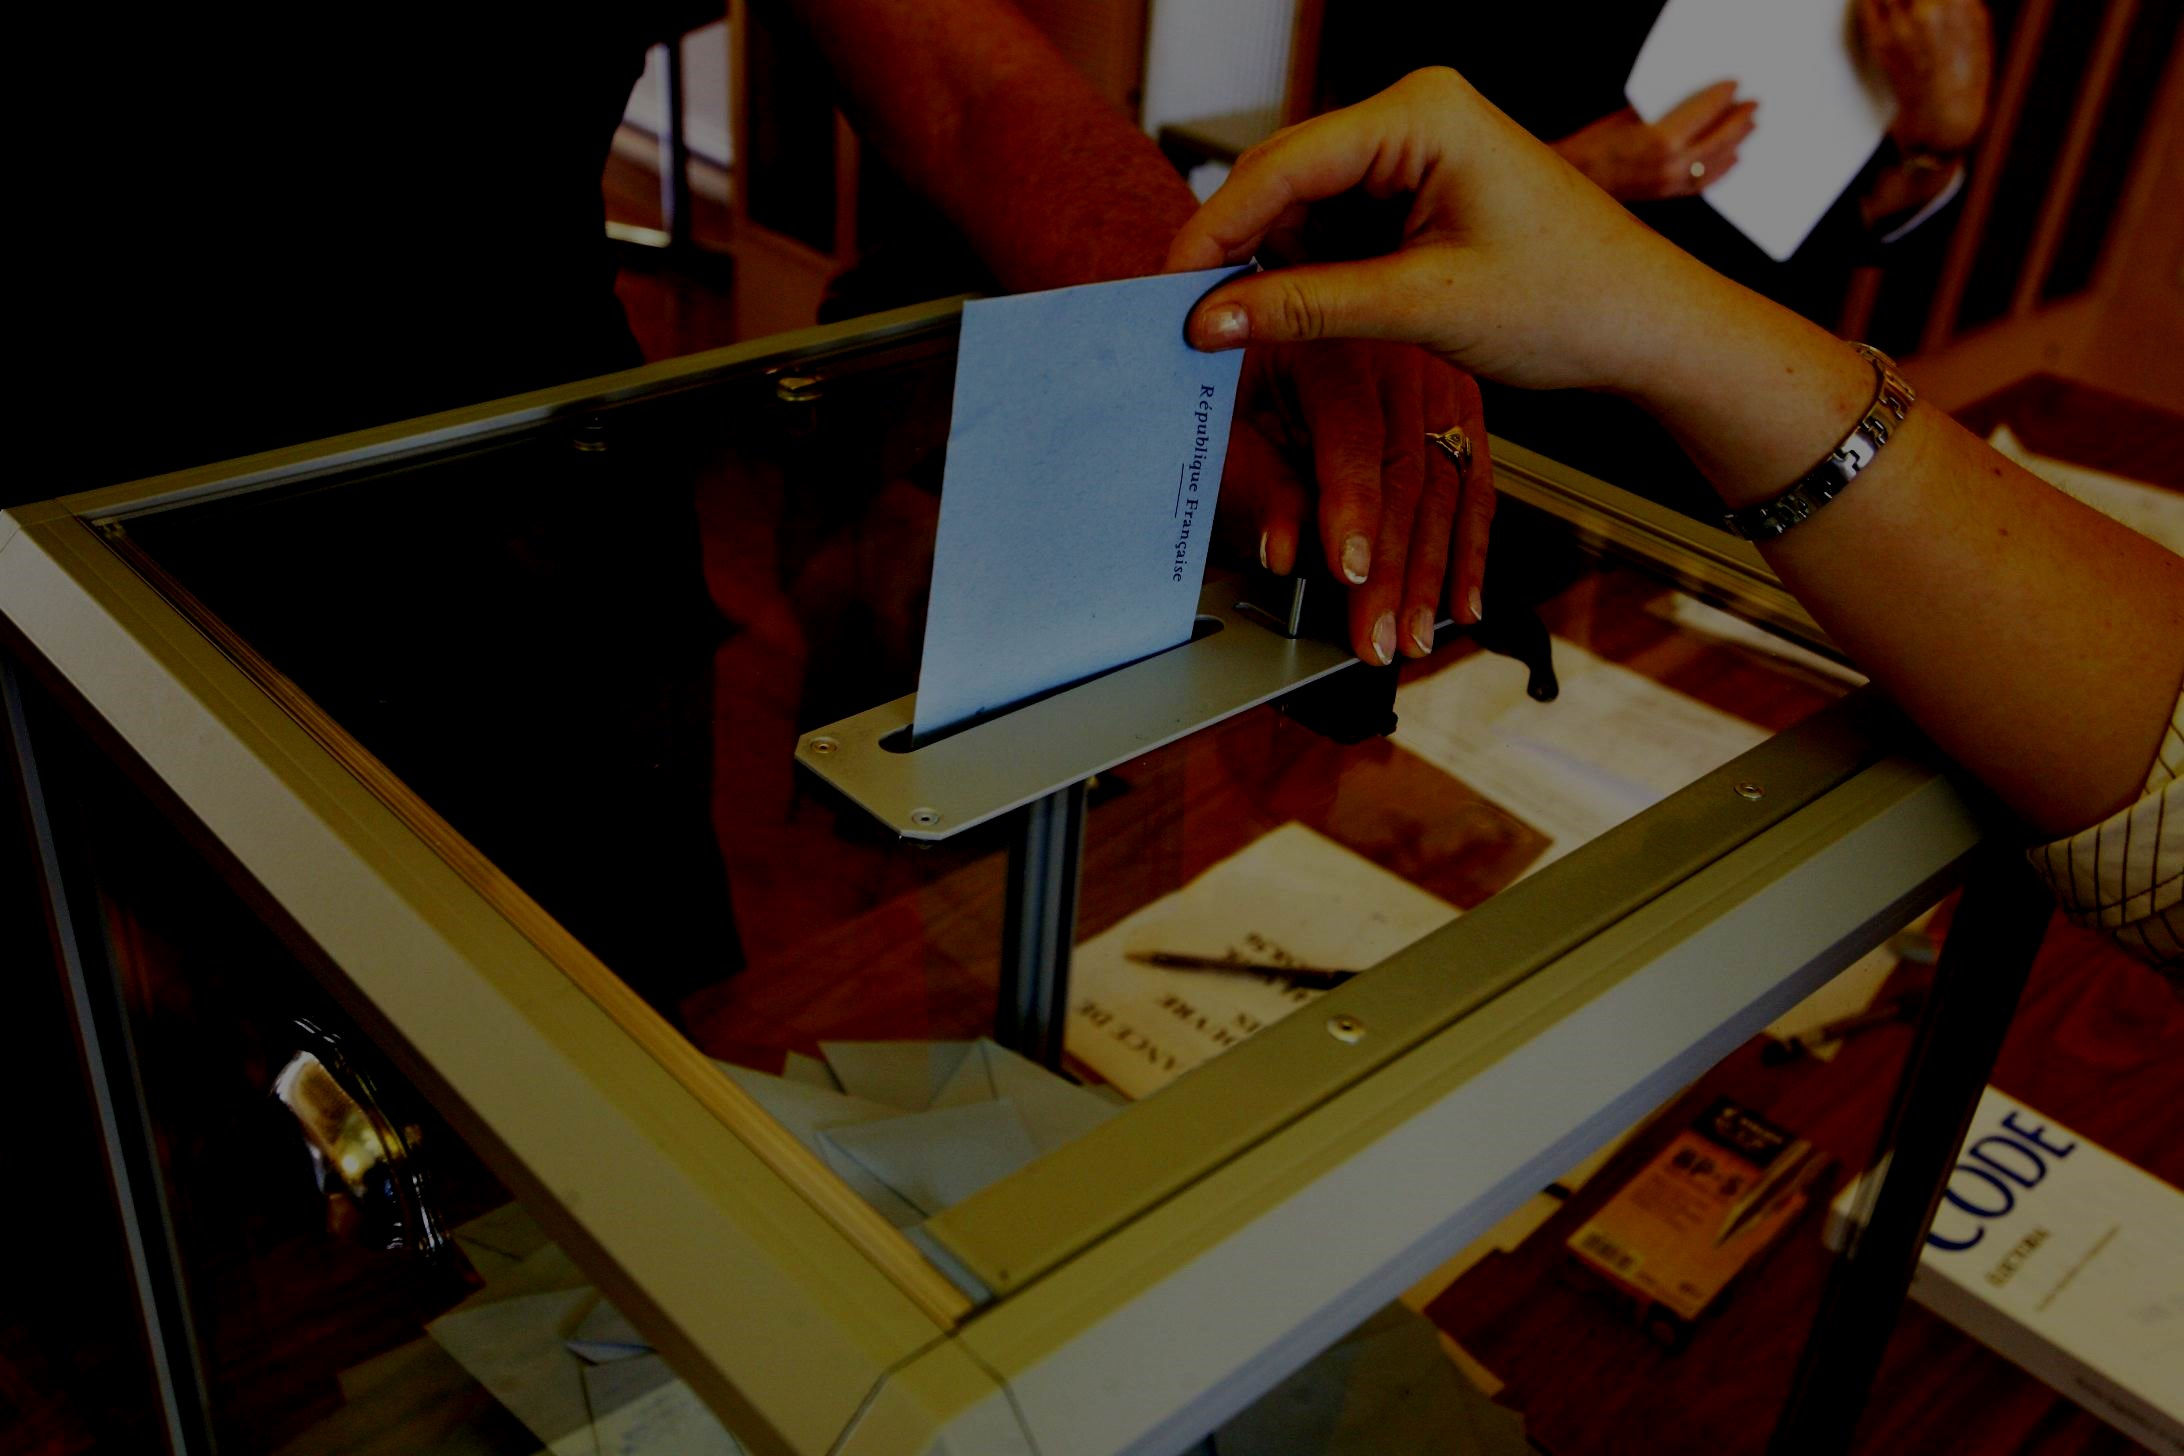
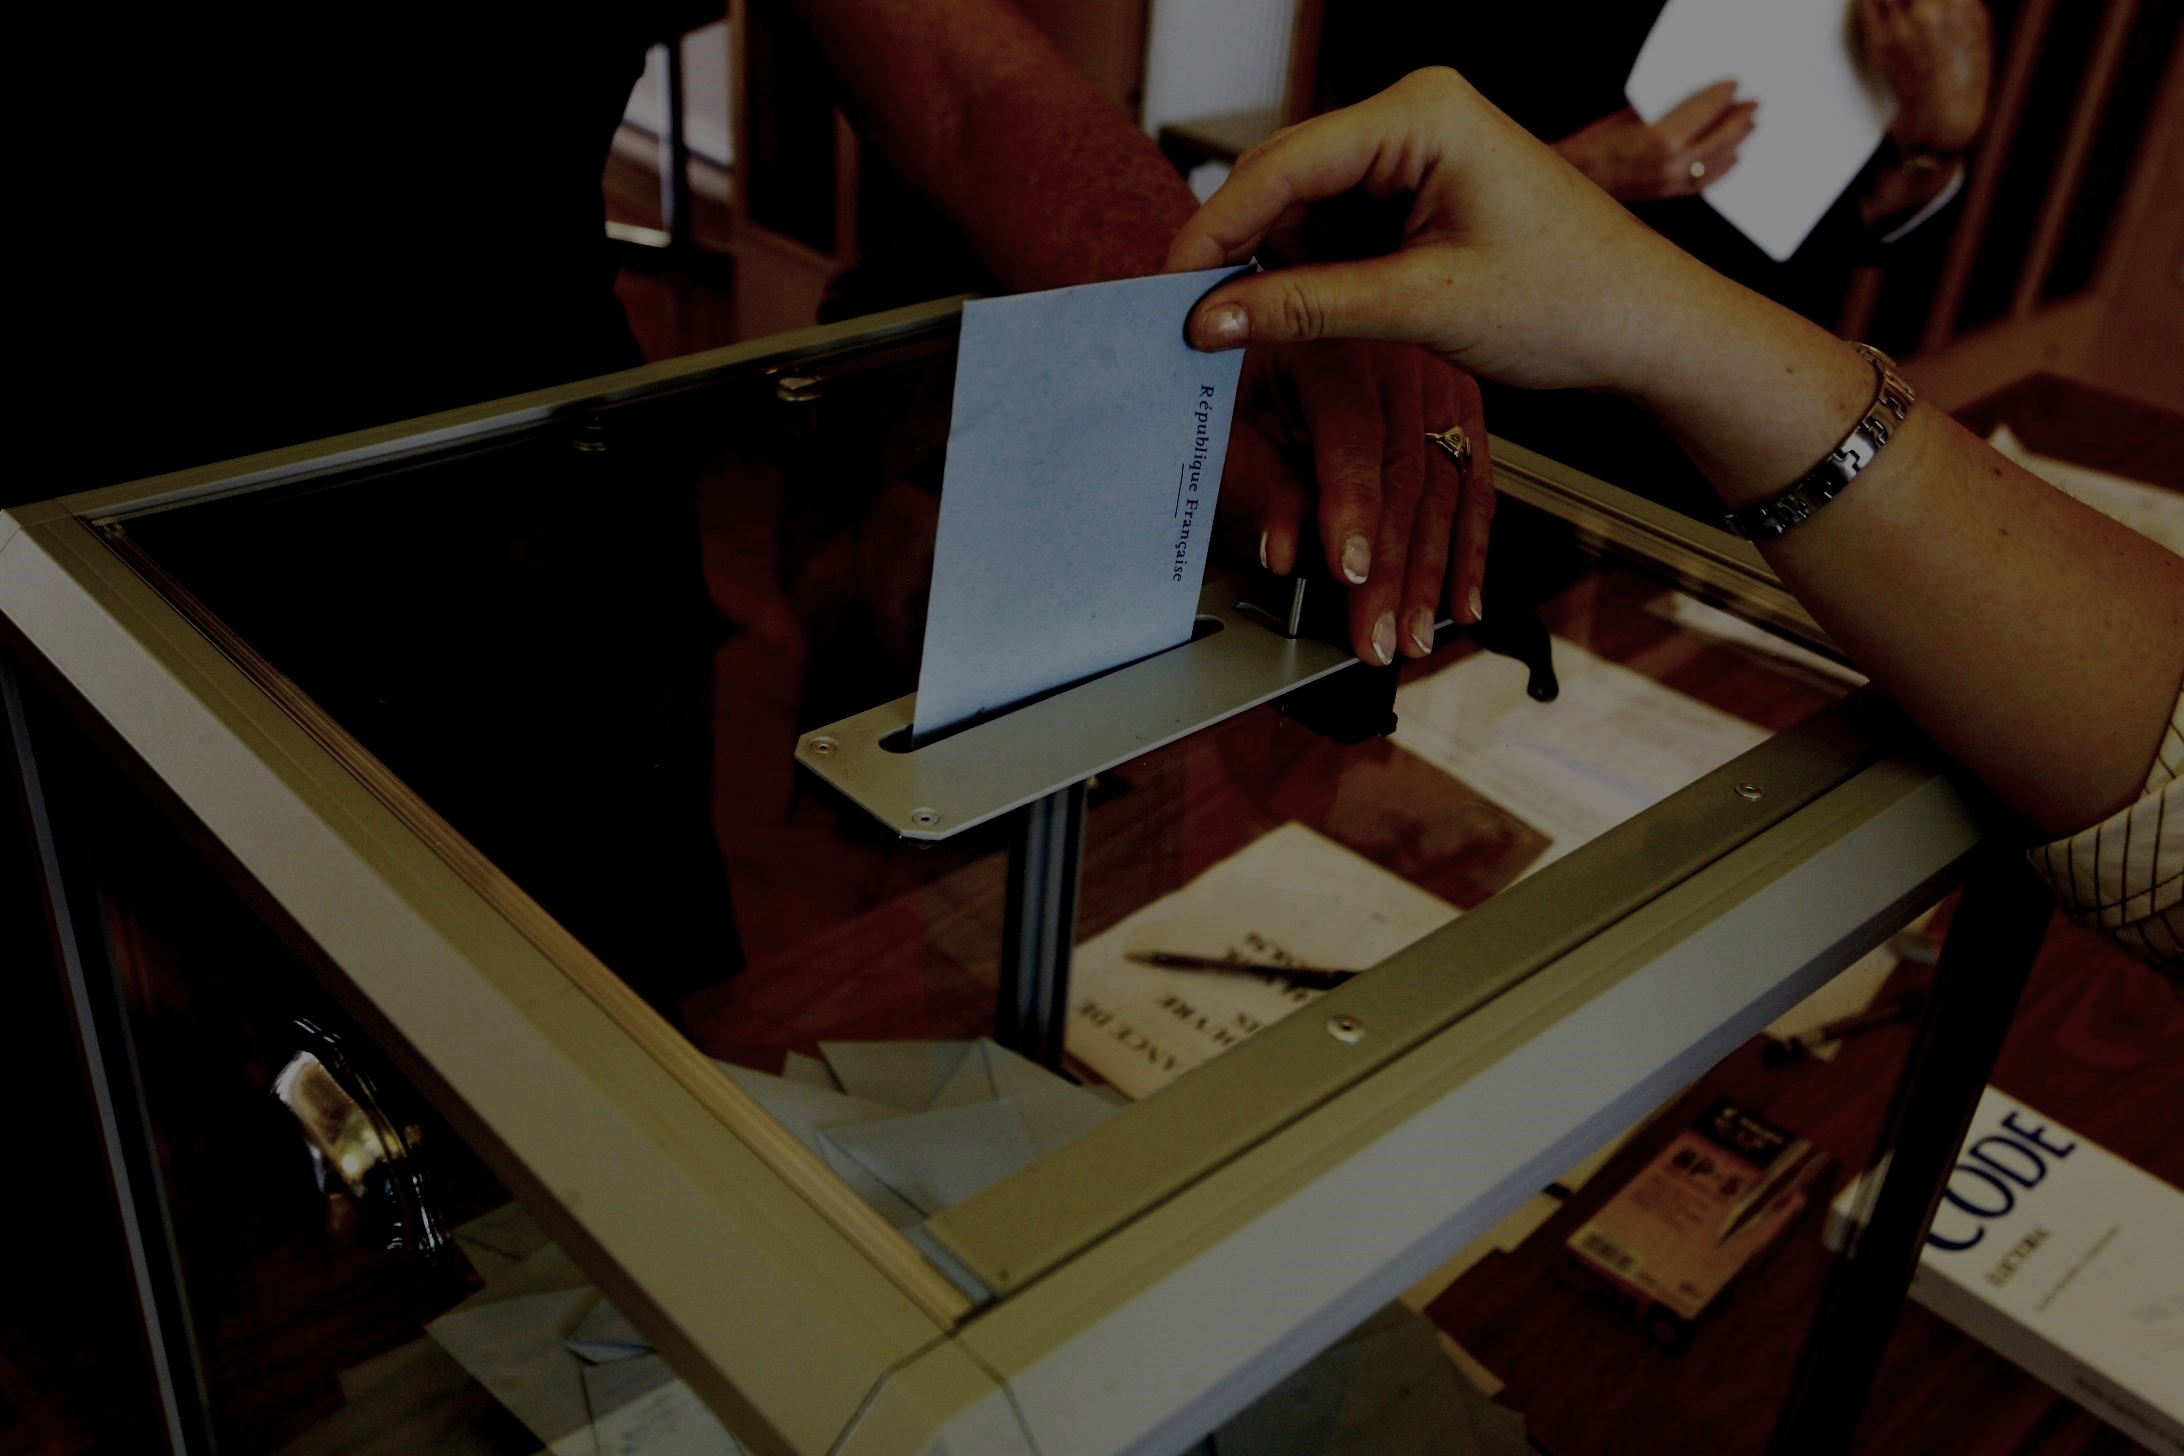
Correction de style
Correction de style, désaturation image, correction Ortho

diff --git a/index.html b/index.html
@@ -313,7 +313,7 @@
             <div class="row">
                 <div class="col-lg-12 text-center">
                     <h2 class="section-heading">Participer ?</h2>
-                    <h3 class="section-subheading text-muted">Vous voulez nous aider ? Nous avons toujours besoin d'aide, que vous soyez informaticien, juriste ou expert comptable, nous avons besoin de votr aide !</h3>
+                    <h3 class="section-subheading text-muted">Vous voulez nous aider ? Nous avons toujours besoin d'aide, que vous soyez informaticien, juriste ou expert comptable, nous avons besoin de votre aide !</h3>
                 </div>
             </div>
             <div class="row">

diff --git a/css/agency.css b/css/agency.css
@@ -103,13 +103,14 @@ fieldset[disabled] .btn-primary.active {
 .btn-xl {
   color: #ffffff;
   background-color: #8814CC;
-  border-color: #8814CC;
+  border-color: #ffffff;
   font-family: "Montserrat", "Helvetica Neue", Helvetica, Arial, sans-serif;
   text-transform: uppercase;
   font-weight: 700;
   border-radius: 3px;
   font-size: 18px;
   padding: 20px 40px;
+  border-width:2px;
 }
 .btn-xl:hover,
 .btn-xl:focus,
@@ -118,7 +119,8 @@ fieldset[disabled] .btn-primary.active {
 .open .dropdown-toggle.btn-xl {
   color: #ffffff;
   background-color: #8300CE;
-  border-color: #7900BF;
+  border-color: #ffffff;
+  border-width:2px;
 }
 .btn-xl:active,
 .btn-xl.active,
